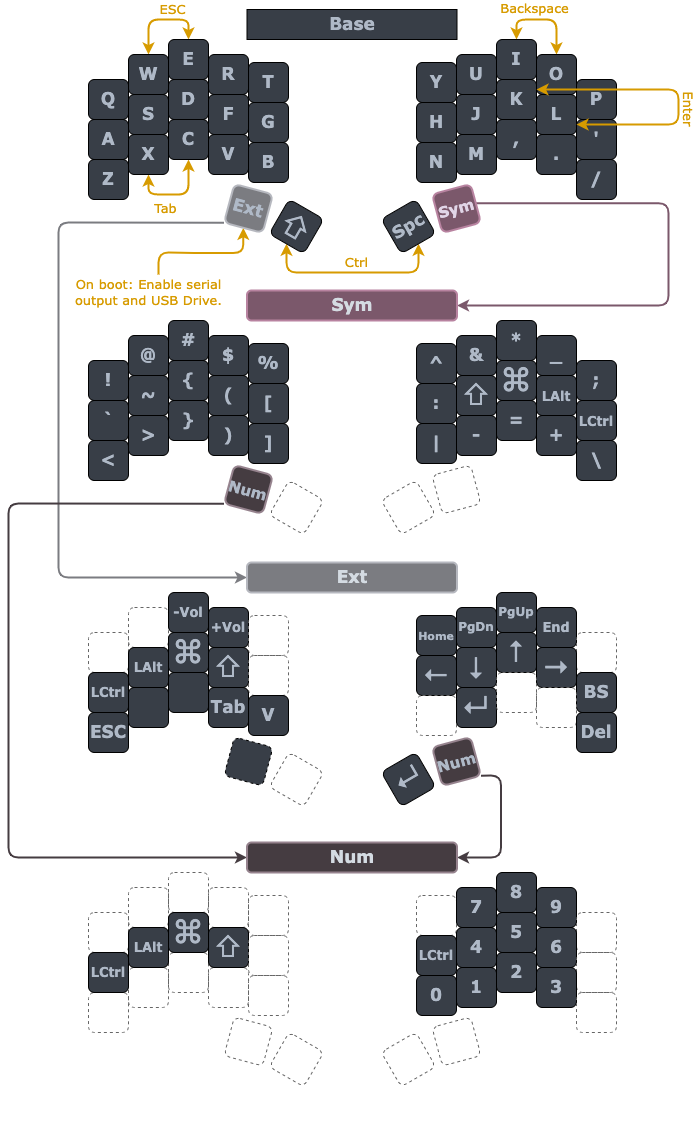
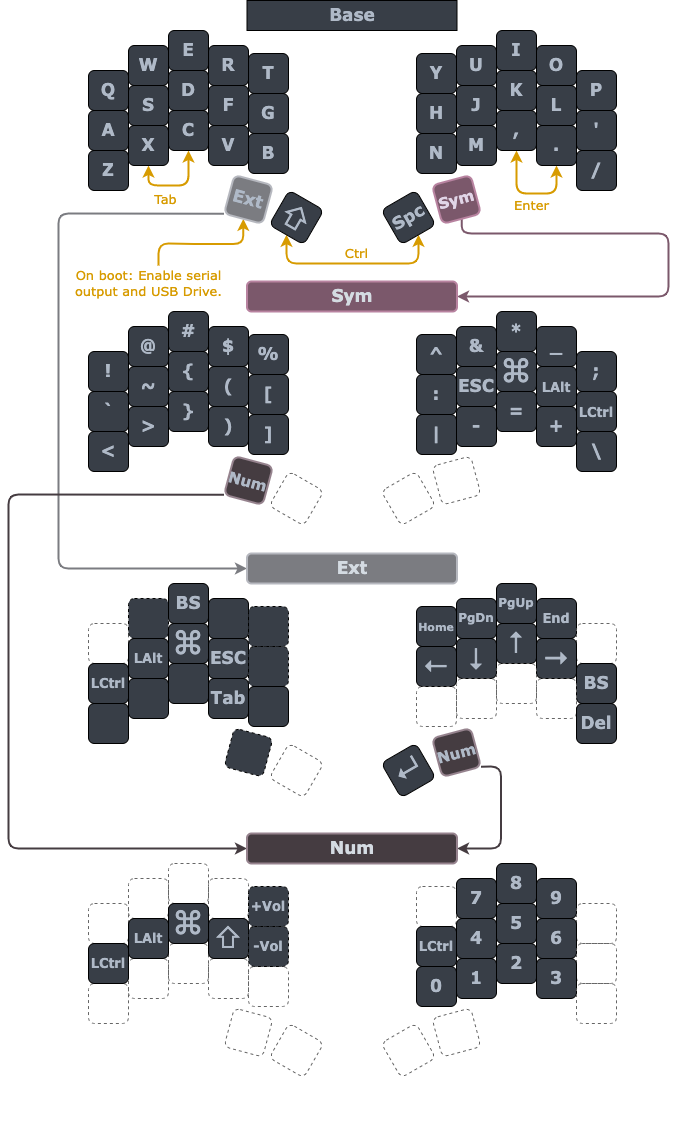
Update layout to get rid of problematic chords (io, and we) along with misc other changes

Changed region(s): [[0.0, 0.0, 0.9926, 0.9358], [0.3722, 0.9046, 0.4032, 0.9358]]

diff --git a/sweep.py b/sweep.py
@@ -27,10 +27,8 @@ L_SYM = KC.MO(2)
 L_NUM = KC.MO(3)
 
 combos.combos = [
-    Chord((KC.W, KC.E),          KC.ESC),
     Chord((KC.X, KC.C),          KC.TAB),
-    Chord((KC.K, KC.L),          KC.ENT),
-    Chord((KC.I, KC.O),          KC.BSPACE),
+    Chord((KC.COMMA, KC.DOT),    KC.ENT),
     Chord((KC.SPACE, KC.LSHIFT), KC.LCTRL),
 ]
 
@@ -53,15 +51,15 @@ keyboard.keymap = [
     ],
     [ # EXT LAYER
         # LEFT
-        ____,               ____,              KC.AUDIO_VOL_DOWN,    KC.AUDIO_VOL_UP, ____,
-        KC.LCTL,            KC.LALT,           KC.LCMD,              KC.LSHIFT,       ____,        
-        ____,               ____,              ____,                 KC.TAB,          KC.V,    
+        ____,               ____,              KC.BSPACE,            ____,            ____,
+        KC.LCTL,            KC.LALT,           KC.LCMD,              KC.ESC,          ____,
+        ____,               ____,              ____,                 KC.TAB,          ____,
                                                                      KC.NO,           KC.TRNS,
 
         # RIGHT
         KC.HOME,            KC.PGDN,           KC.PGUP,              KC.END,          ____,
         KC.LEFT,            KC.DOWN,           KC.UP,                KC.RIGHT,        KC.BACKSPACE,
-        ____,               KC.ENT,            ____,                 ____,            KC.DEL,
+        ____,               ____,              ____,                 ____,            KC.DEL,
         KC.ENT,             L_NUM,
     ],
     [ # SYM LAYER
@@ -73,14 +71,14 @@ keyboard.keymap = [
 
         # RIGHT
         KC.LSFT(KC.N6),     KC.LSFT(KC.N7),    KC.LSFT(KC.N8),       KC.LSFT(KC.MINS), KC.SCOLON,
-        KC.LSFT(KC.SCOLON), KC.LSHIFT,         KC.LCMD,              KC.LALT,          KC.LCTRL,
+        KC.LSFT(KC.SCOLON), KC.ESC,            KC.LCMD,              KC.LALT,          KC.LCTRL,
         KC.LSFT(KC.BSLASH), KC.MINS,           KC.EQL,               KC.LSFT(KC.EQL),  KC.BSLASH,
         ____,              ____,
     ],
     [ # NUM LAYER
         # LEFT
-        ____,               ____,              ____,                 ____,             ____,
-        KC.LCTRL,           KC.LALT,           KC.LCMD,              KC.LSHIFT,        ____,
+        ____,               ____,              ____,                 ____,             KC.AUDIO_VOL_UP,
+        KC.LCTRL,           KC.LALT,           KC.LCMD,              KC.LSHIFT,        KC.AUDIO_VOL_DOWN,
         ____,               ____,              ____,                 ____,             ____,
                                                                      ____,             ____,
 
